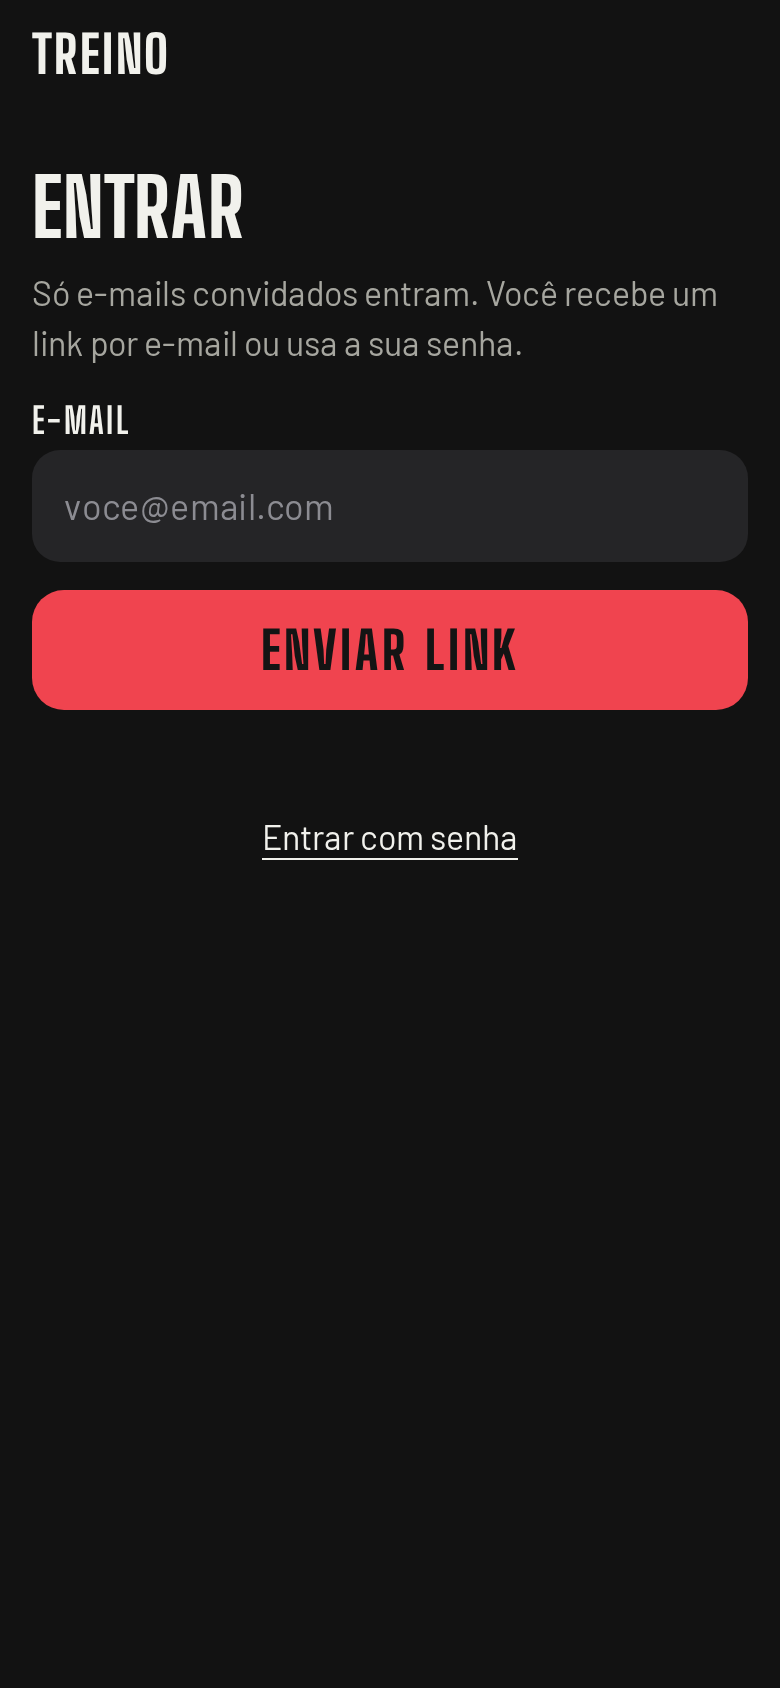
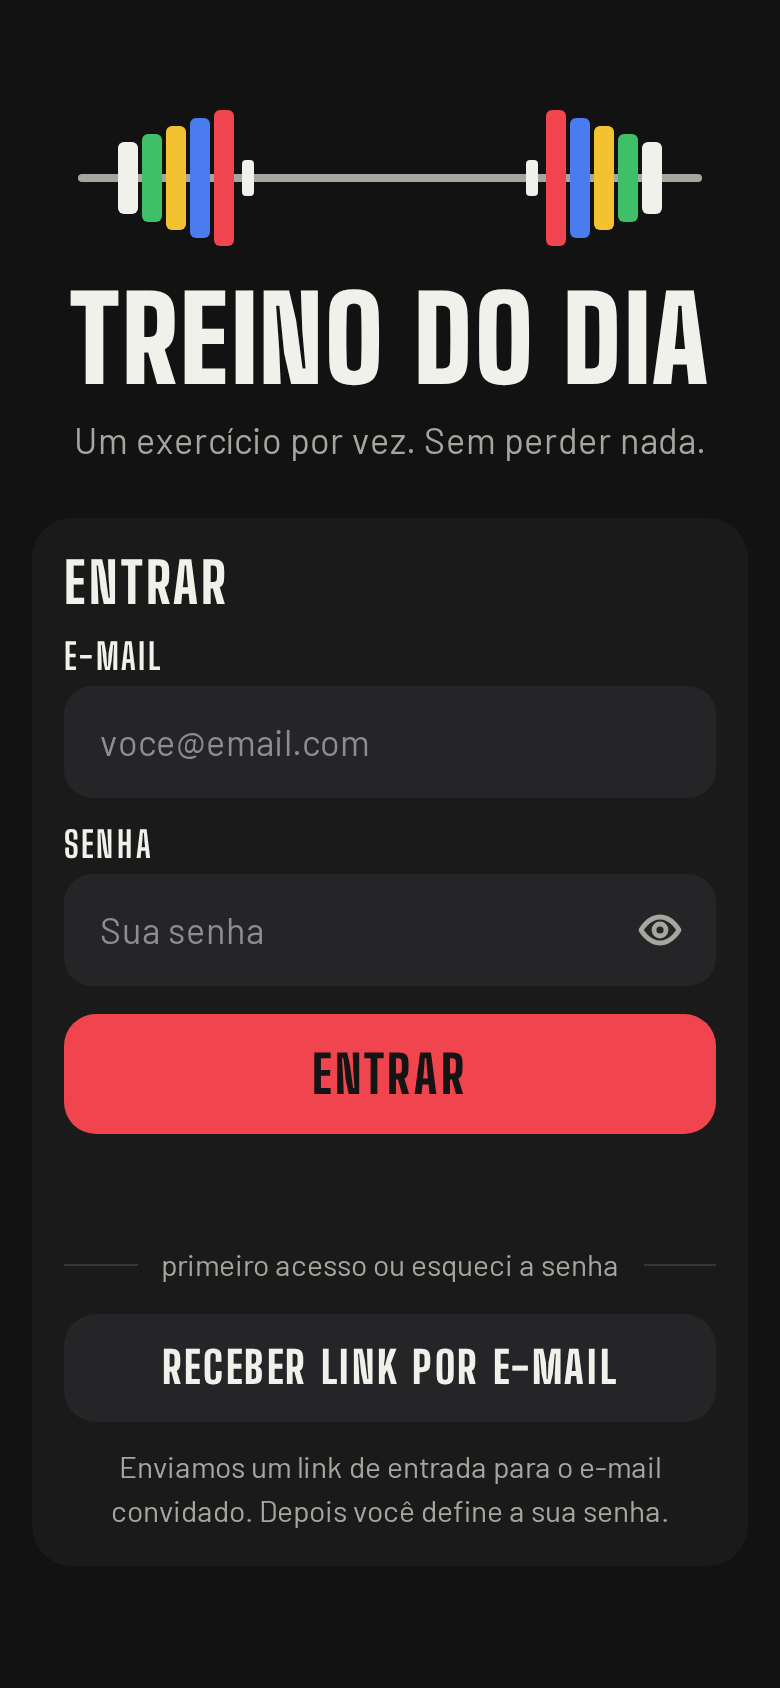
Redesenha a tela de entrada: senha primeiro, link por e-mail como apoio
A entrada ganha a identidade do app: barra carregada com anilhas como marca,
formulário em bloco, campo de senha com mostrar/ocultar. A senha passa a ser
o caminho principal; o link por e-mail fica como opção secundária para o
primeiro acesso e para quem esqueceu a senha, com intervalo de 1 minuto entre
pedidos (também na tela "Link enviado") para não gastar o limite de e-mails.

Quem chega pelo link é convidado, uma vez por conta, a definir a senha em
Conta. O último e-mail usado fica preenchido.

Atualiza o README com os prints novos da entrada.

diff --git a/index.html b/index.html
@@ -67,18 +67,41 @@
   .acct[data-s="pending"] i, .acct[data-s="syncing"] i, .acct[data-s="offline"] i { background: #f2c230; }
   .acct[data-s="error"] i { background: #f0444f; }
   .noauth .rack, .noauth .wname, .noauth .rail, .noauth .dock, .noauth #ovbtn, .noauth #acctbtn { display: none; }
-  .auth { max-width: 420px; margin: 36px auto 0; }
-  .auth h2 { margin: 0 0 10px; font-size: 40px; }
-  .auth p { margin: 0 0 18px; color: var(--muted); }
+  .noauth .top { display: none; }
+  .noauth main { padding-bottom: 24px; }
+  .auth { min-height: calc(100dvh - 28px); display: flex; flex-direction: column; justify-content: center; gap: 26px; max-width: 440px; margin: 0 auto; padding: 20px 0 8px; }
+  .brand { text-align: center; }
+  .brand svg { display: block; width: min(100%, 320px); height: auto; margin: 0 auto 18px; overflow: visible; }
+  .brand .pl { animation: load .5s var(--ease) both; animation-delay: calc(var(--i) * 50ms); transform-box: fill-box; transform-origin: center; }
+  @keyframes load { from { opacity: 0; transform: translateX(calc(var(--s) * 20px)); } }
+  .brand h1 { margin: 0; font: 900 clamp(46px, 15vw, 64px)/.92 var(--display); letter-spacing: .02em; text-transform: uppercase; }
+  .brand p { margin: 10px 0 0; color: var(--muted); font-size: 18px; }
+  .card { background: var(--rubber-2); border-radius: 20px; padding: 18px 16px 16px; }
+  .card h2 { margin: 0 0 14px; font: 800 28px/1 var(--display); letter-spacing: .06em; text-transform: uppercase; }
   .auth label { display: block; margin: 0 0 6px; font: 700 18px/1 var(--display); letter-spacing: .08em; text-transform: uppercase; }
-  .field { width: 100%; height: 56px; margin: 0 0 14px; padding: 0 16px; border: 0; border-radius: 14px; background: var(--rubber-3); font-size: 18px; }
+  .field { width: 100%; height: 56px; margin: 0 0 14px; padding: 0 16px; border: 2px solid transparent; border-radius: 14px; background: var(--rubber-3); font-size: 18px; }
+  .field:focus { outline: 0; border-color: var(--chalk); }
   .field::placeholder { color: var(--hint); opacity: 1; }
+  .pw { position: relative; }
+  .pw .field { padding-right: 60px; }
+  .pw button { position: absolute; right: 4px; top: 4px; width: 48px; height: 48px; border: 0; border-radius: 12px; background: none; display: grid; place-items: center; color: var(--muted); }
+  .pw button[aria-pressed="true"] { color: var(--chalk); }
   .btn { width: 100%; height: 60px; border: 0; border-radius: 16px; background: var(--plate); color: var(--on-plate); font: 800 26px/1 var(--display); letter-spacing: .06em; text-transform: uppercase; }
+  .btn:active { transform: scale(.985); }
   .btn:disabled { opacity: .5; }
-  .btn.ghost { background: var(--rubber-3); color: var(--chalk); }
-  .linkbtn { display: block; margin: 16px auto 0; padding: 10px 14px; border: 0; background: none; color: var(--chalk); text-decoration: underline; text-underline-offset: 4px; font-size: 17px; }
-  .msg { min-height: 1.4em; margin: 12px 0 0; font-size: 16px; color: var(--chalk); }
+  .btn.ghost { background: var(--rubber-3); color: var(--chalk); height: 54px; font-size: 22px; }
+  .or { display: flex; align-items: center; gap: 12px; margin: 20px 0 14px; color: var(--muted); font-size: 15px; }
+  .or::before, .or::after { content: ""; flex: 1; height: 1px; background: var(--line); }
+  .help { margin: 12px 0 0; color: var(--muted); font-size: 15px; text-align: center; }
+  .msg { min-height: 1.4em; margin: 12px 0 0; font-size: 16px; color: var(--chalk); text-align: center; }
   .msg.err { color: #ff8a93; }
+  .sent { text-align: center; }
+  .sent .seal { width: 72px; height: 72px; margin: 4px auto 14px; border-radius: 50%; background: var(--plate); color: var(--on-plate); display: grid; place-items: center; position: relative; }
+  .sent .seal::before { content: ""; position: absolute; inset: 6px; border-radius: 50%; border: 2px solid var(--rim-ink); }
+  .sent .seal .ic { width: 34px; height: 34px; }
+  .sent p { margin: 0 0 10px; overflow-wrap: anywhere; }
+  .sent b { font-weight: 600; }
+  .sent .btn { margin-top: 8px; }
   #acct .row { margin: 0 0 18px; }
   #acct h3 { margin: 0 0 8px; font: 700 18px/1 var(--display); letter-spacing: .08em; text-transform: uppercase; color: var(--muted); }
   #acct p { margin: 0 0 10px; overflow-wrap: anywhere; }
@@ -522,7 +545,10 @@ const ICON = {
   list: '<path d="M9 7h11M9 12h11M9 17h11M4.5 7h.01M4.5 12h.01M4.5 17h.01"/>',
   close: '<path d="M6 6l12 12M18 6L6 18"/>',
   pin: '<path d="M12 16v6M8.5 3h7l-1 6 3 3.5H6.5L9.5 9l-1-6z"/>',
-  reset: '<path d="M4 12a8 8 0 1 0 2.6-5.9M4 4v4.5h4.5"/>'
+  reset: '<path d="M4 12a8 8 0 1 0 2.6-5.9M4 4v4.5h4.5"/>',
+  eye: '<path d="M2.5 12S6 5.5 12 5.5 21.5 12 21.5 12 18 18.5 12 18.5 2.5 12 2.5 12z"/><circle cx="12" cy="12" r="3"/>',
+  eyeoff: '<path d="M3 3l18 18M10.6 5.7A9.6 9.6 0 0 1 12 5.5C18 5.5 21.5 12 21.5 12a16 16 0 0 1-3 3.8M6.3 6.9A16 16 0 0 0 2.5 12S6 18.5 12 18.5a9.7 9.7 0 0 0 4-.9M9.9 9.9a3 3 0 0 0 4.2 4.2"/>',
+  mail: '<path d="M3.5 6.5h17v11h-17zM3.5 7l8.5 6.5L20.5 7"/>'
 };
 const icon = n => `<svg class="ic" viewBox="0 0 24 24" aria-hidden="true">${ICON[n]}</svg>`;
 function el(tag, attrs = {}, ...kids) {
@@ -802,6 +828,7 @@ const SB_KEY = "sb_publishable_LzwKSUVcFFBRs6u42TknnA_qDKvBxkS"; // chave públi
 const sb = typeof supabase !== "undefined"
   ? supabase.createClient(SB_URL, SB_KEY, { auth: { persistSession: true, autoRefreshToken: true, detectSessionInUrl: true } })
   : null;
+const arrivedByLink = /access_token=|type=(magiclink|recovery|signup)|[?&]code=/.test(location.hash + location.search);
 let session = null, syncErr = false, flushing = false, flushTimer = null, lastSync = 0, dirtySeq = 0;
 function uid() { return session?.user?.id ?? null; }
 const EX_NAME = Object.fromEntries(WORKOUTS.flatMap(w => w.ex.map(e => [e.id, e.n])));
@@ -1010,44 +1037,121 @@ function authError(err) {
   if (m.includes("invalid login") || m.includes("credentials")) return ERR.creds;
   return err?.message || "Não deu certo. Tente de novo.";
 }
+const LINK_COOLDOWN_S = 60; // intervalo entre pedidos de link, para não gastar o limite de e-mails do Supabase
+const lastEmailKey = "gym.lastEmail";
+const linkKey = email => `gym.linkAt.${email}`;
+const linkWait = email => Math.max(0, LINK_COOLDOWN_S - Math.floor((Date.now() - (+safe(() => localStorage.getItem(linkKey(email)), 0) || 0)) / 1000));
+
+// Barra carregada com anilhas IWF, desenhada em SVG: a marca do app.
+function barbell() {
+  const plates = [["#f1f1ec", 36], ["#3fbf68", 44], ["#f2c230", 52], ["#4a7cf0", 60], ["#f0444f", 68]], W = 320, H = 72;
+  let g = "";
+  plates.forEach(([c, h], i) => {
+    const x = 24 + i * 12, y = (H - h) / 2;
+    g += `<rect class="pl" style="--i:${i};--s:-1" x="${x}" y="${y}" width="10" height="${h}" rx="3" fill="${c}"/>`;
+    g += `<rect class="pl" style="--i:${i};--s:1" x="${W - x - 10}" y="${y}" width="10" height="${h}" rx="3" fill="${c}"/>`;
+  });
+  return `<svg viewBox="0 0 ${W} ${H}" role="img" aria-label="Barra carregada com anilhas"><rect x="4" y="${H / 2 - 2}" width="${W - 8}" height="4" rx="2" fill="#a6a69f"/><rect x="86" y="${H / 2 - 9}" width="6" height="18" rx="2" fill="#f1f1ec"/><rect x="${W - 92}" y="${H / 2 - 9}" width="6" height="18" rx="2" fill="#f1f1ec"/>${g}</svg>`;
+}
+
 function buildAuth() {
-  let mode = "link";
-  const msg = el("p", { class: "msg", role: "status" });
-  const mail = el("input", { class: "field", type: "email", id: "auth-mail", autocomplete: "email", inputmode: "email", placeholder: "voce@email.com", required: "" });
-  const pass = el("input", { class: "field", type: "password", id: "auth-pass", autocomplete: "current-password", placeholder: "Sua senha" });
-  const passWrap = el("div", {}, el("label", { for: "auth-pass" }, "Senha"), pass); passWrap.hidden = true;
-  const go = el("button", { class: "btn", type: "submit" }, "Enviar link");
-  const toggle = el("button", { class: "linkbtn", type: "button" }, "Entrar com senha");
-  const setMode = m => {
-    mode = m; passWrap.hidden = m === "link"; go.textContent = m === "link" ? "Enviar link" : "Entrar";
-    toggle.textContent = m === "link" ? "Entrar com senha" : "Prefiro receber um link"; msg.textContent = ""; msg.className = "msg";
-  };
-  toggle.addEventListener("click", () => setMode(mode === "link" ? "senha" : "link"));
-  const form = el("form", { novalidate: "" }, el("label", { for: "auth-mail" }, "E-mail"), mail, passWrap, go, msg, toggle);
-  form.addEventListener("submit", async ev => {
-    ev.preventDefault();
-    const email = mail.value.trim().toLowerCase();
-    if (!email) { msg.className = "msg err"; msg.textContent = "Digite o seu e-mail."; mail.focus(); return; }
-    if (!sb) { msg.className = "msg err"; msg.textContent = "Não consegui carregar o login. Recarregue a página."; return; }
-    go.disabled = true; msg.className = "msg"; msg.textContent = "Um momento…";
-    try {
-      if (mode === "link") {
-        const { error } = await sb.auth.signInWithOtp({ email, options: { emailRedirectTo: location.origin + location.pathname } });
-        if (error) throw error;
-        msg.textContent = `Link enviado para ${email}. Abra o e-mail neste aparelho e toque no link.`;
-      } else {
-        if (!pass.value) { msg.className = "msg err"; msg.textContent = "Digite a sua senha."; pass.focus(); return; }
+  const root = el("section", { class: "auth", "aria-label": "Entrar" },
+    el("div", { class: "brand", html: `${barbell()}<h1>Treino do dia</h1><p>Um exercício por vez. Sem perder nada.</p>` }));
+  const card = el("div", { class: "card" });
+  root.append(card);
+  let timer = null;
+
+  const showForm = (prefill = "") => {
+    clearInterval(timer);
+    const msg = el("p", { class: "msg", role: "status" });
+    const mail = el("input", { class: "field", type: "email", id: "auth-mail", name: "email", autocomplete: "username", inputmode: "email", enterkeyhint: "next", autocapitalize: "none", spellcheck: "false", placeholder: "voce@email.com", value: prefill || safe(() => localStorage.getItem(lastEmailKey), "") || "" });
+    const pass = el("input", { class: "field", type: "password", id: "auth-pass", name: "password", autocomplete: "current-password", enterkeyhint: "go", placeholder: "Sua senha" });
+    const eye = el("button", { type: "button", "aria-label": "Mostrar senha", "aria-pressed": "false", html: icon("eye") });
+    eye.addEventListener("click", () => { const show = pass.type === "password"; pass.type = show ? "text" : "password"; eye.setAttribute("aria-pressed", String(show)); eye.setAttribute("aria-label", show ? "Ocultar senha" : "Mostrar senha"); eye.innerHTML = icon(show ? "eyeoff" : "eye"); });
+    const go = el("button", { class: "btn", type: "submit" }, "Entrar");
+    const link = el("button", { class: "btn ghost", type: "button", id: "auth-link" }, "Receber link por e-mail");
+    const fail = t => { msg.className = "msg err"; msg.textContent = t; };
+    const readMail = () => {
+      const email = mail.value.trim().toLowerCase();
+      if (!email || !email.includes("@")) { fail("Digite o seu e-mail."); mail.focus(); return null; }
+      if (!sb) { fail("Não consegui carregar o login. Recarregue a página."); return null; }
+      return email;
+    };
+    const card_ = el("form", { novalidate: "" },
+      el("h2", {}, "Entrar"),
+      el("label", { for: "auth-mail" }, "E-mail"), mail,
+      el("label", { for: "auth-pass" }, "Senha"), el("div", { class: "pw" }, pass, eye),
+      go, msg,
+      el("div", { class: "or" }, "primeiro acesso ou esqueci a senha"),
+      link,
+      el("p", { class: "help" }, "Enviamos um link de entrada para o e-mail convidado. Depois você define a sua senha."));
+    card.replaceChildren(card_);
+
+    // Entrar com senha (caminho principal)
+    card_.addEventListener("submit", async ev => {
+      ev.preventDefault();
+      const email = readMail(); if (!email) return;
+      if (!pass.value) { fail("Digite a sua senha, ou peça um link por e-mail."); pass.focus(); return; }
+      go.disabled = true; msg.className = "msg"; msg.textContent = "Entrando…";
+      try {
         const { error } = await sb.auth.signInWithPassword({ email, password: pass.value });
         if (error) throw error;
-        msg.textContent = "Entrando…";
-      }
-    } catch (err) { msg.className = "msg err"; msg.textContent = authError(err); }
-    finally { go.disabled = false; }
-  });
-  return el("section", { class: "auth", "aria-label": "Entrar" },
-    el("h2", {}, "Entrar"),
-    el("p", {}, "Só e-mails convidados entram. Você recebe um link por e-mail ou usa a sua senha."),
-    form);
+        safe(() => localStorage.setItem(lastEmailKey, email));
+      } catch (err) { fail(authError(err)); go.disabled = false; pass.focus(); }
+    });
+
+    // Link por e-mail (secundário), com intervalo entre envios
+    const tickLink = () => {
+      const email = mail.value.trim().toLowerCase(), w = email ? linkWait(email) : 0;
+      link.disabled = w > 0;
+      link.textContent = w > 0 ? `Link enviado · novo em ${fmtClock(w)}` : "Receber link por e-mail";
+    };
+    mail.addEventListener("input", tickLink); tickLink();
+    timer = setInterval(() => { if (!document.contains(card_)) clearInterval(timer); else tickLink(); }, 1000);
+    link.addEventListener("click", async () => {
+      const email = readMail(); if (!email) return;
+      if (linkWait(email) > 0) { tickLink(); return; }
+      link.disabled = true; msg.className = "msg"; msg.textContent = "Enviando o link…";
+      try {
+        const { error } = await sb.auth.signInWithOtp({ email, options: { emailRedirectTo: location.origin + location.pathname } });
+        if (error) throw error;
+        safe(() => { localStorage.setItem(linkKey(email), String(Date.now())); localStorage.setItem(lastEmailKey, email); });
+        showSent(email);
+      } catch (err) { fail(authError(err)); tickLink(); }
+    });
+  };
+
+  const showSent = email => {
+    clearInterval(timer);
+    const again = el("button", { class: "btn ghost", type: "button" }, "");
+    const back = el("button", { class: "btn ghost", type: "button" }, "Usar senha ou outro e-mail");
+    const hint = el("p", { class: "help" });
+    const paint = () => { const w = linkWait(email); again.disabled = w > 0; again.textContent = w > 0 ? `Reenviar em ${fmtClock(w)}` : "Reenviar o link"; };
+    back.addEventListener("click", () => showForm(email));
+    again.addEventListener("click", async () => {
+      if (linkWait(email) > 0) return;
+      again.disabled = true;
+      try {
+        const { error } = await sb.auth.signInWithOtp({ email, options: { emailRedirectTo: location.origin + location.pathname } });
+        if (error) throw error;
+        safe(() => localStorage.setItem(linkKey(email), String(Date.now()))); hint.textContent = "Enviamos de novo.";
+      } catch (err) { hint.textContent = authError(err); }
+      paint();
+    });
+    const box = el("div", { class: "sent", role: "status" },
+      el("div", { class: "seal", html: icon("mail") }),
+      el("h2", {}, "Link enviado"),
+      el("p", { html: "Enviamos para <b></b>. Abra o e-mail <b>neste aparelho</b> e toque no link para entrar." }),
+      el("p", { class: "help" }, "Não chegou? Olhe o spam. Na próxima vez você já entra com a senha."),
+      again, back, hint);
+    box.querySelector("b").textContent = email;
+    card.replaceChildren(box);
+    paint();
+    timer = setInterval(() => { if (!document.contains(box)) clearInterval(timer); else paint(); }, 1000);
+  };
+
+  showForm();
+  return root;
 }
 
 // ---- Conta ----
@@ -1060,14 +1164,15 @@ function renderImport() {
     const r = importLegacy(who); e.currentTarget.textContent = `Importado: ${r.days} treino${r.days === 1 ? "" : "s"}, ${r.notes} nota${r.notes === 1 ? "" : "s"}`; e.currentTarget.disabled = true; render();
   } }, `Importar “${who}” (${n} treino${n === 1 ? "" : "s"})`)));
 }
-function openAcct() {
-  $("#acct-mail").textContent = session?.user?.email || ""; $("#acct-pw-msg").textContent = ""; $("#acct-pw-in").value = "";
+function openAcct(nudgePassword = false) {
+  $("#acct-mail").textContent = session?.user?.email || ""; $("#acct-pw-msg").className = "msg"; $("#acct-pw-msg").textContent = nudgePassword ? "Defina uma senha para entrar mais rápido da próxima vez, sem precisar do link." : ""; $("#acct-pw-in").value = "";
   renderImport(); paintAcct();
   if (typeof acct.showModal === "function") acct.showModal(); else acct.setAttribute("open", "");
+  if (nudgePassword) $("#acct-pw-in").focus();
 }
 function closeAcct() { if (typeof acct.close === "function") acct.close(); else acct.removeAttribute("open"); }
 $("#acct-x").innerHTML = icon("close");
-$("#acctbtn").addEventListener("click", openAcct);
+$("#acctbtn").addEventListener("click", () => openAcct());
 $("#acct-x").addEventListener("click", closeAcct);
 acct.addEventListener("click", e => { if (e.target === acct) closeAcct(); });
 $("#acct-now").addEventListener("click", async () => { $("#acct-sync").textContent = "Sincronizando…"; await syncAll(); paintAcct(); });
@@ -1086,6 +1191,12 @@ function onUserChange() {
   state.who = uid() || "anon"; state.idx = -1;
   render();
   if (uid()) setTimeout(syncAll, 0); // fora do callback de auth, para não travar o cliente
+  // Entrou pelo link: convida, uma vez por conta, a criar a senha para as próximas vezes.
+  const seen = `gym.pwNudge.${uid()}`;
+  if (uid() && arrivedByLink && !safe(() => localStorage.getItem(seen), null)) {
+    safe(() => localStorage.setItem(seen, "1"));
+    setTimeout(() => openAcct(true), 400);
+  }
 }
 async function initAuth() {
   if (!sb) { render(); return; }

diff --git a/README.md b/README.md
@@ -46,7 +46,7 @@ O que guiou as decisões:
 | **Dias como anilhas** | Cada dia da semana é uma cor de anilha olímpica, e a régua no topo mostra o progresso do treino. |
 | **Resumo do treino** | Todos os exercícios do dia com quantas séries faltam. |
 | **Sem internet** | Abre e funciona offline, e sincroniza quando a conexão volta. Pode ser instalado na tela inicial. |
-| **Conta pessoal** | Login por link mágico ou senha, com cadastro fechado: só e-mails convidados entram. |
+| **Conta pessoal** | Entra com e-mail e senha. O link por e-mail serve para o primeiro acesso e para quem esqueceu a senha, com intervalo de 1 minuto entre pedidos. Cadastro fechado: só e-mails convidados entram. |
 
 ## Telas
 
@@ -60,8 +60,8 @@ O que guiou as decisões:
   <tr>
     <td align="center"><img src="screenshots/6-outro-dia.png" width="220" alt="Outro dia, com drop set"><br><sub>Outro dia, com drop set</sub></td>
     <td align="center"><img src="screenshots/7-conta.png" width="220" alt="Conta e sincronização"><br><sub>Conta e sincronização</sub></td>
-    <td align="center"><img src="screenshots/1-login.png" width="220" alt="Tela de entrada"><br><sub>Entrada</sub></td>
-    <td></td>
+    <td align="center"><img src="screenshots/1-login.png" width="220" alt="Tela de entrada, com senha como caminho principal"><br><sub>Entrada</sub></td>
+    <td align="center"><img src="screenshots/8-link-enviado.png" width="220" alt="Link enviado por e-mail"><br><sub>Primeiro acesso: link por e-mail</sub></td>
   </tr>
 </table>
 
